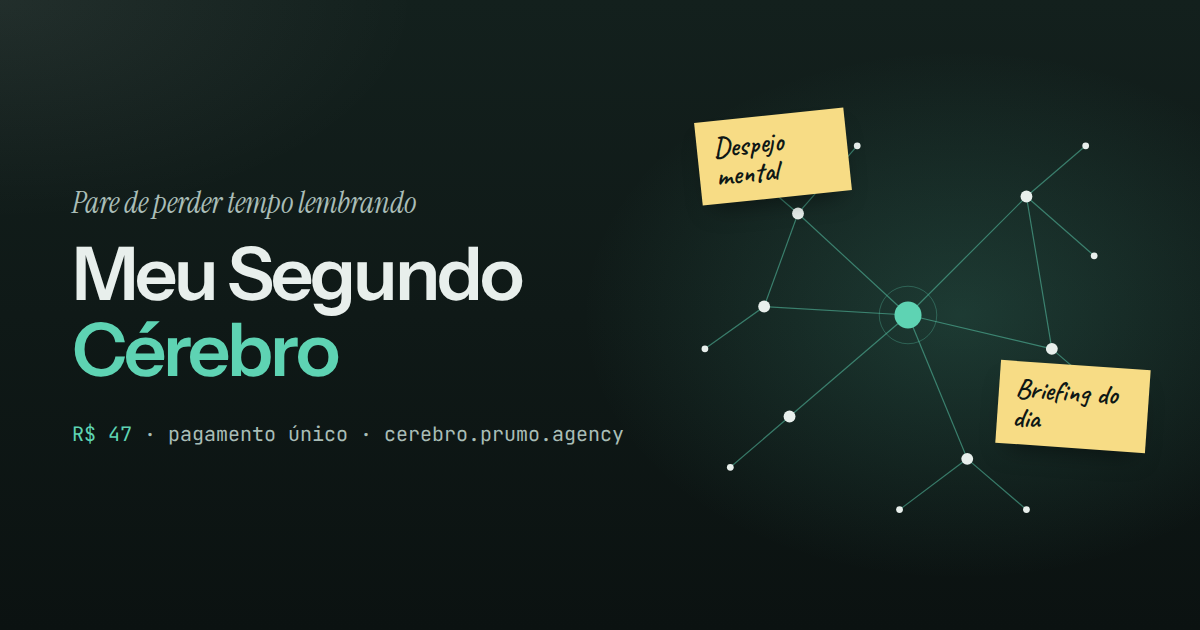
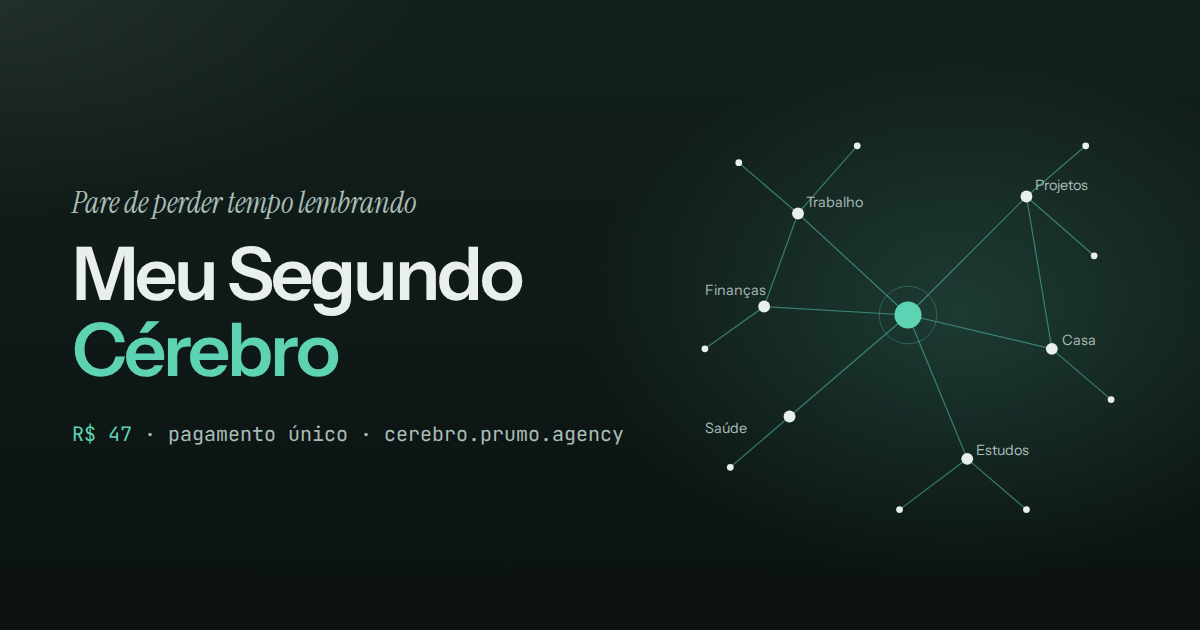
Rede do hero sem post-its, com o nome das áreas
Imagem de compartilhamento refeita do mesmo jeito e instruções para
mandar fotos e gravação de tela em PROMPTS-MIDIA.md.

Claude-Session: https://claude.ai/code/session_01PJV9XUoUkbxi5e7CGqPKDX

diff --git a/src/components/ui/Rede.tsx b/src/components/ui/Rede.tsx
@@ -1,5 +1,4 @@
 import { m, useReducedMotion } from 'framer-motion'
-import { POSTITS_HERO } from '../../data/conteudo'
 
 type Ponto = [number, number]
 
@@ -28,16 +27,19 @@ const PONTES: [number, number][] = [
   [2, 1],
 ]
 
-/** Onde cada post-it se prende: índice do ponto principal e deslocamento do papel. */
-const PRESOS: { ponto: number; rot: number; dx: string; dy: string }[] = [
-  { ponto: 0, rot: -6, dx: '-55%', dy: '-115%' },
-  { ponto: 2, rot: 4, dx: '-55%', dy: '35%' },
-  { ponto: 4, rot: -3, dx: '-20%', dy: '30%' },
+/** Rótulos das áreas, ao lado de cada ponto principal (mesma ordem de PRINCIPAIS). */
+const ROTULOS: { texto: string; x: number; y: number; ancora: 'start' | 'end' }[] = [
+  { texto: 'Trabalho', x: 140, y: 132, ancora: 'start' },
+  { texto: 'Projetos', x: 410, y: 112, ancora: 'start' },
+  { texto: 'Casa', x: 442, y: 296, ancora: 'start' },
+  { texto: 'Estudos', x: 340, y: 426, ancora: 'start' },
+  { texto: 'Saúde', x: 20, y: 400, ancora: 'start' },
+  { texto: 'Finanças', x: 20, y: 236, ancora: 'start' },
 ]
 
 /**
  * A rede neural do hero: um núcleo com áreas ligadas, sinais correndo pelas conexões
- * e três post-its presos (os prompts). Puramente decorativa.
+ * e o nome de cada área. Puramente decorativa.
  */
 export function Rede() {
   const reduzir = useReducedMotion()
@@ -124,35 +126,27 @@ export function Rede() {
               })}
         />
         <m.circle cx={NUCLEO[0]} cy={NUCLEO[1]} r="16" fill="#5ED3B3" style={{ transformOrigin: '260px 260px' }} {...surgir(0)} />
+        {ROTULOS.map(({ texto, x, y, ancora }, i) => (
+          <m.text
+            key={texto}
+            x={x}
+            y={y}
+            textAnchor={ancora}
+            fill="#A9BDB7"
+            fontSize="15"
+            fontFamily="'Instrument Sans', sans-serif"
+            {...(reduzir
+              ? {}
+              : { initial: { opacity: 0 }, animate: { opacity: 1 }, transition: { duration: 0.6, delay: 0.9 + i * 0.08 } })}
+          >
+            {texto}
+          </m.text>
+        ))}
         <text x="260" y="310" textAnchor="middle" fill="#A9BDB7" fontSize="14" fontFamily="'JetBrains Mono', monospace">
           núcleo
         </text>
       </svg>
 
-      {PRESOS.map(({ ponto, rot, dx, dy }, i) => {
-        const [x, y] = PRINCIPAIS[ponto]
-        return (
-          <m.div
-            key={POSTITS_HERO[i]}
-            className="absolute"
-            style={{ left: `${(x / 520) * 100}%`, top: `${(y / 520) * 100}%` }}
-            {...(reduzir
-              ? {}
-              : {
-                  initial: { opacity: 0, y: -12 },
-                  animate: { opacity: 1, y: 0 },
-                  transition: { duration: 0.6, delay: 1.5 + i * 0.25, ease: [0.22, 1, 0.36, 1] },
-                })}
-          >
-            <div
-              className="postit w-[clamp(6.5rem,26vw,8.5rem)] rounded-sm px-3 py-2.5 text-[clamp(1.15rem,4.4vw,1.45rem)] leading-tight font-semibold"
-              style={{ transform: `translate(${dx}, ${dy}) rotate(${rot}deg)` }}
-            >
-              {POSTITS_HERO[i]}
-            </div>
-          </m.div>
-        )
-      })}
     </div>
   )
 }

diff --git a/index.html b/index.html
@@ -24,7 +24,7 @@
     <meta property="og:image" content="https://cerebro.prumo.agency/og.png" />
     <meta property="og:image:width" content="1200" />
     <meta property="og:image:height" content="630" />
-    <meta property="og:image:alt" content="Meu Segundo Cérebro: uma rede de pontos ligados a um núcleo verde-menta, com dois post-its amarelos. Template de Obsidian, método e oito prompts por R$ 47." />
+    <meta property="og:image:alt" content="Meu Segundo Cérebro: uma rede de áreas da vida ligadas a um núcleo verde-menta. Template de Obsidian, método e oito prompts por R$ 47." />
     <meta name="twitter:card" content="summary_large_image" />
     <meta name="twitter:title" content="Meu Segundo Cérebro · Pare de perder tempo lembrando" />
     <meta

diff --git a/src/data/conteudo.ts b/src/data/conteudo.ts
@@ -42,9 +42,6 @@ export const IMAGENS = {
   },
 } as const
 
-/** Os post-its que aparecem presos à rede do hero: nomes de três dos oito prompts. */
-export const POSTITS_HERO = ['Despejo mental', 'Briefing do dia', 'Fechamento de sessão'] as const
-
 export const VIRADA_ITENS = [
   'Minhas tarefas não acumulam mais.',
   'Enxergo tudo no micro e no macro ao mesmo tempo.',

diff --git a/src/components/Hero.tsx b/src/components/Hero.tsx
@@ -47,7 +47,7 @@ export const Hero = forwardRef<HTMLElement>(function Hero(_, ref) {
             </m.div>
           </div>
 
-          <div className="px-6 pt-6 md:px-0 md:pt-0">
+          <div>
             <Rede />
           </div>
         </div>

diff --git a/PROMPTS-MIDIA.md b/PROMPTS-MIDIA.md
@@ -48,6 +48,11 @@ Faltam só três arquivos reais:
 | logo e favicon definitivos | topo, rodapé, card de preço, aba do navegador | prompts 3 e 4, depois vetorizar |
 
 Quando o arquivo existir no caminho certo, a página usa sozinha, sem mexer em código.
+Ou mais simples: **mande os arquivos aqui na conversa** (PNG, JPG ou MP4, do jeito que saírem) e eu converto, otimizo e coloco no lugar.
+
+**Opcional, para a seção 4:** em vez da captura parada, uma **gravação de tela de 10 a 20 segundos** do vault em uso
+(abrir uma área, colar o prompt de despejo mental, ver o resultado). Sem som, sem nada pessoal.
+Grave com o Gravador do Windows (Win+Alt+R), a Barra de Jogos ou o QuickTime no Mac. É o vídeo que mais vende, porque mostra o produto de verdade.
 Hoje o símbolo (o neurônio menta) já está desenhado em código em `src/components/ui/Marca.tsx` e em `public/favicon.svg`.
 
 ---
